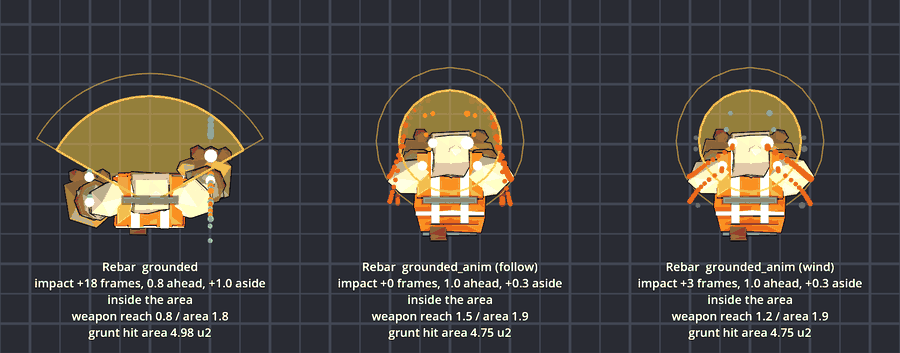
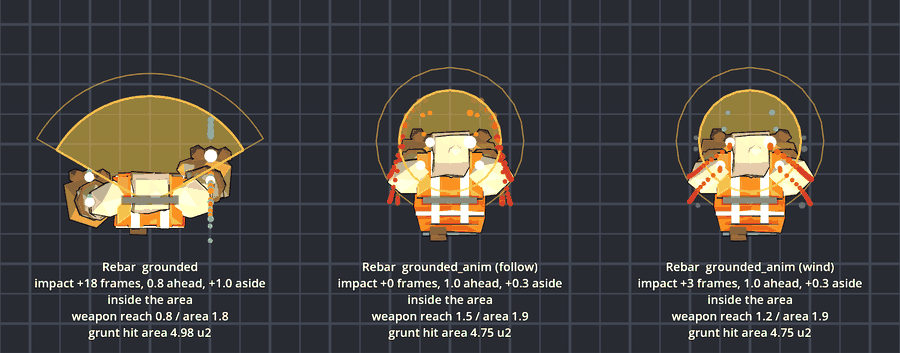
Gasket's smash after the playtest: no arm through the body, a bigger impact (lane + disc), cracks, dust and a heavier hit-stop
The user as Gasket (2026-10-22): "Gasket feels MUCH better. The animation has a problem though, the arm penetrates the
body and disappears when the hammer comes down. The impact of the hammer should be a little bigger too."

- PoseClip (strike_lab --clipcheck, test_move_feel_anim): each arm's centre line against the body parts' boxes. The
  two-handed smash buried her left arm 0.27 in her coat at the impact and her right arm 0.22 in her head overhead.
- Gasket's smash is one-handed in the plane of her right shoulder, the handle turned in so the head still lands on her
  centre line (2.0 ahead); her left arm swings back and out. Rebar's clasp 0.50 -> 0.46 (was 0.005 in his vest). Deepest
  0.000 for every hero through walk, stop, swings (follow and wind-up) and cast, today and grounded_anim.
- Combat.melee_lane / lane_targets take end_radius (a disc round the landing); Gasket's area: lane 0.6-1.95, 0.25 wide,
  plus a 0.6 disc round the head (grunt area 4.20 vs today 2.78 and the lane alone 2.88). Fx.slam_lane draws the disc.
- HeroFeel: a smash marks its landing on every screen (Fx.ground_smash: cracks, a shock ring, dust), a per-hero hit-stop
  (Gasket 83 ms), and a camera nudge on the attacker's own screen only. Strike-first timing unchanged.
- Docs: the verdict and the fixes in animation-research.md "As built"; Gasket's overlay, strips and GIF redone.

diff --git a/docs/design/animation-research.md b/docs/design/animation-research.md
@@ -337,7 +337,7 @@ areas. **`today` is still the default**; nothing changes in normal play until th
 | The body (B) | `HeroFeel` (`scripts/heroes/hero_feel.gd`), ticked from `Hero._process` before `HeroGait` | A pivot node between `Hero._visual` and the model (added and removed as the profile switches). The lab's lean and squash, per hero, from the shown position: lean = smoothed velocity x `lean` + (quick - smoothed velocity) x `kick`, through a spring, clamped at 22 degrees; a shove tips the body back against the slide. Squash springs on a start (a stretch) and a stop (a squash sized by the speed just had). |
 | Stride held | `HeroGait`, `Gait.hold` | Under `body`, the stride clock stops while the hero is shoved or airborne (a hop, a fall): the legs keep their pose instead of walking on air. grounded is unchanged (its shove case still settles the legs). |
 | Strike first | `HeroFeel.STRIKES`, `Hero._swing_pose` | The swing's pose is a timeline of the model's kick channels: the weapon is at its impact on the frame the hit resolves (the click's frame), then a small lunge, a forward pitch and a squash; when the blow touched something, a **50 ms (3-frame) hit-stop of the attacker's pose only** (the simulation, the hero's motion, the damage and the cooldown are untouched). Puppets play it from the replayed `act`. |
-| The weapons | `WickModel` (`follow`), `GasketModel` (`smash_w`, `smash_a`), `RebarModel` (`slam_w`, `slam_a`) | New channels, at rest unless HeroFeel drives them (today's poses are unchanged). Wick's bash carries through to his right front. **Gasket: a centred overhead smash**: both hands on the handle, the wrench comes straight down on her centre line and the head lands about 1.9 ahead. **Rebar: a centred double-fist slam** (my call, since his alternating punches landed 0.8 ahead at his sides while his wedge reached 1.8 at 120 degrees): both fists come down together in front of him with a forward bend and a crouch. |
+| The weapons | `WickModel` (`follow`), `GasketModel` (`smash_w`, `smash_a`), `RebarModel` (`slam_w`, `slam_a`) | New channels, at rest unless HeroFeel drives them (today's poses are unchanged). Wick's bash carries through to his right front. **Gasket: an overhead smash onto her centre line**: the wrench comes straight down and the head lands about 2.0 ahead on her centre line (first built two-handed; since the user's playtest one-handed beside her right shoulder, see "Gasket after the playtest" below). **Rebar: a centred double-fist slam** (my call, since his alternating punches landed 0.8 ahead at his sides while his wedge reached 1.8 at 120 degrees): both fists come down together in front of him with a forward bend and a crouch. |
 | Hit areas | `Hero.melee_area`, `Combat.melee_lane` / `lane_targets` / `arc_targets`, `Fx.slam_lane` | Each kit's area under the profile. A lane is everything within `radius` of the segment from `near` to `far` ahead (near = far: a disc). The floor mark matches the area (`Fx.slam_lane`: the stadium plus a ring where the blow lands). The AI's prop check and its "turn the swing" use the area (`AllyBrain._area_clear`, `Hero.melee_half_angle`). |
 | Lab | `scripts/art/lowpoly/strike_lab.gd`, `scenes/strike_lab.tscn` | Built on the anim lab: lanes are profiles, `--strike follow\|wind\|both`, `--overlay`. |
 
@@ -371,7 +371,7 @@ area a grunt (radius 0.38) can stand in and be hit (the thin outline). "Grunt hi
 | Hero | Today's area (today, grounded) | Where today's weapon lands | Proposed area (grounded_anim) | Where the new weapon lands | Grunt hit area | Farthest hit (grunt centre) |
 |---|---|---|---|---|---|---|
 | Wick (bow bash) | wedge 1.3, 90 deg | 0.8 ahead, centred (inside) | **unchanged**: wedge 1.3, 90 deg | 0.9 ahead, the bow across his front +-0.8 (inside) | 2.22 -> 2.22 | 1.68 -> 1.68 |
-| Gasket (hammer) | wedge 1.5, 90 deg | **2.3 ahead, 0.9 to her right, 1.2 up: outside the wedge** (2% of the swing's low path inside it) | **lane** 0.6 -> 1.9 ahead, 0.25 wide each side (the shaft's line and the head's landing) | 1.9 ahead, centred, on the floor (inside) | 2.78 -> 2.88 (+4%) | 1.88 -> 2.53 (+0.65) |
+| Gasket (hammer) | wedge 1.5, 90 deg | **2.3 ahead, 0.9 to her right, 1.2 up: outside the wedge** (2% of the swing's low path inside it) | **lane** 0.6 -> 1.95 ahead, 0.25 wide each side, **ending in a disc of 0.6 round the head's landing** (the smash; first built as the lane alone, 0.6 -> 1.9) | 2.0 ahead, centred, on the floor (inside) | 2.78 -> 4.20 (+51%; the lane alone was 2.88) | 1.88 -> 2.93 (the lane alone 2.53) |
 | Rebar (slam fist) | wedge 1.8, 120 deg | 0.8 ahead, 1.0 to the side (the punching fist; the wedge reaches 1.8) | **disc** of 0.85 centred 1.05 ahead (the shockwave where both fists land) | 1.0 ahead, centred, 0.8 up (inside) | 4.98 -> 4.75 (-5%) | 2.18 -> 2.28 (+0.10) |
 
 What changes in play: **damage, cooldowns and shoves are unchanged, so DPS is unchanged** (Wick 30, Gasket 43, Rebar 19
@@ -398,6 +398,30 @@ transform and sized to the hand, so it follows every pose (walk, the swings, the
 standing, walking, a swing and a cast, under today and grounded_anim. Before / after: `ga_held_<hero>.png` (`strike_lab
 --clip held`). The "cast armed" look (a floor rune / hand glow while speaking) is a separate look-dev track and not built here.
 
+#### Gasket after the playtest (2026-10-22)
+The user played `grounded_anim` as Gasket: **"Gasket feels MUCH better. The animation has a problem though, the arm
+penetrates the body and disappears when the hammer comes down. The impact of the hammer should be a little bigger too. It is
+a smash weapon. But the point is MUCH better than the 'swing arc' that was there before."** Fixed:
+
+- **No arm in the body.** Measured with `PoseClip` (each arm's centre line against the body parts' boxes; `strike_lab
+  --clipcheck` prints it per frame): the two-handed smash buried her left arm 0.27 deep in her coat at the impact and her
+  right arm 0.22 in her head at the top of the follow-through. A straight arm from her shoulder to a fist on her centre line
+  has to cross her coat, so the smash is now **one-handed**: her right fist rides an arc in the plane of her right shoulder
+  (outside the coat and the beard), the handle is turned in (0.39 rad) so the head still lands on her centre line, and her
+  left arm swings back and out for balance (the held component stays in that hand, in view). Deepest now: **0.000** for
+  every frame of a walk, a stop, two swings (follow-through and wind-up, with the lean, squash and lunge) and a cast, for
+  Gasket, Rebar (0.005 before; his clasp is 0.46 now) and Wick (`test_move_feel_anim`, `_no_clip`).
+- **A bigger smash.** The aimed lane stays and ends in a disc of 0.6 round the head (2.0 ahead): a grunt is hit within
+  0.98 of the landing. Grunt hit area **4.20** (today's wedge 2.78, the lane alone 2.88); farthest hit 2.93 (1.88, 2.53).
+  Damage and cooldown are unchanged, so one target takes the same DPS; the extra area is more targets per swing (a crowd
+  ahead of her). The floor mark draws the disc.
+- **Weight.** At the impact, on every screen (a puppet's replayed smash too): dark cracks radiating from the head, a fast
+  shock ring and a puff of dust (`Fx.ground_smash`). A connecting smash holds her pose **83 ms (5 frames)** instead of 50.
+  The attacker's own screen gets a small camera nudge (`Fx.shake(0.12)`; a puppet's smash shakes no one). Strike-first
+  timing is unchanged: the impact is still on the damage frame.
+- Evidence: `ga_overlay_gasket.png`, `ga_gasket_close.png`, `ga_gasket_game.png`, `ga_gif_gasket_attack.gif` (redone),
+  `ga_held_gasket.png`.
+
 #### Networking
 Nothing new on the wire. HeroFeel is cosmetic and declares every var LOCAL (`test_net_contract`); a puppet leans from its
 streamed position and plays a replayed swing strike-first (`test_net_move_feel_anim`, two processes: the client takes the
@@ -421,7 +445,7 @@ the areas against today's wedge target by target, today and grounded untouched, 
 
 #### Open questions (added)
 1. Blind: does `grounded_anim` feel better than `grounded`?
-2. Gasket's lane: a sharper, aimed hammer (proposed), or keep some width (a lane 0.35 wide, or a short wedge)?
+2. Gasket's smash disc at 0.6 (grunt area +51% over today): right, or smaller (0.5: about +35%)?
 3. Follow-through (built) or the 2-frame wind-up (`--strike wind`: reads more like a hammer, lands 3 frames after the number)?
 4. Squash at 6-7% reads at the close zoom; at the game zoom only the lean reads. More (up to the 16-20% limits)?
 5. Should hit-stop scale with the blow (Gasket longer, Wick shorter) and skip in crowd fights (Sakurai's caution)?
